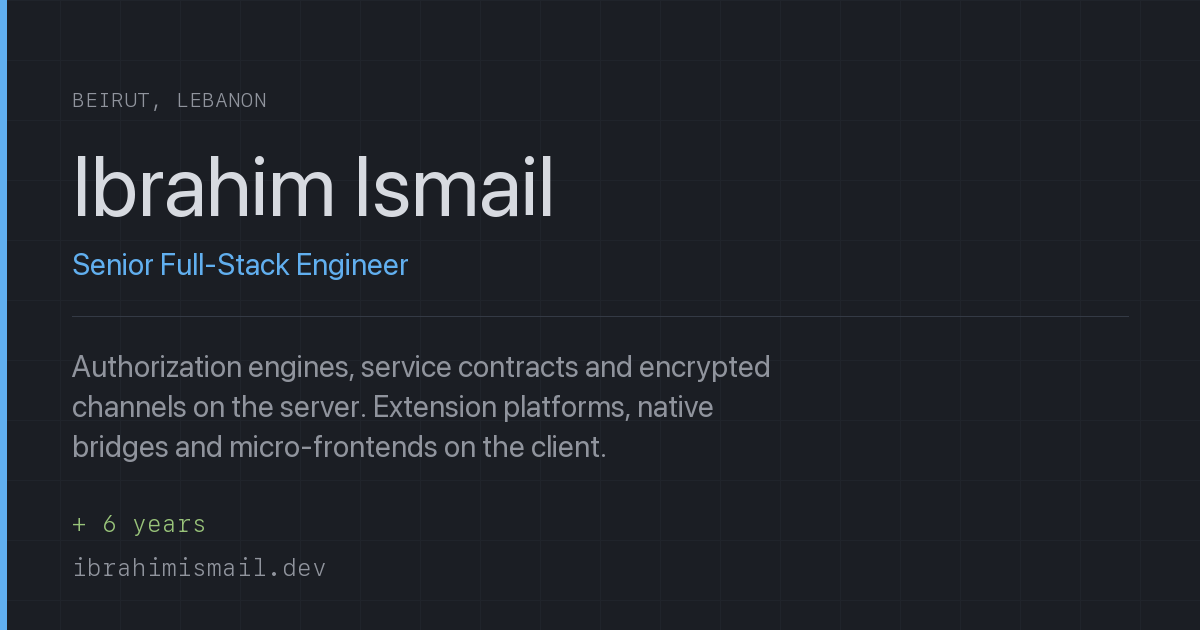
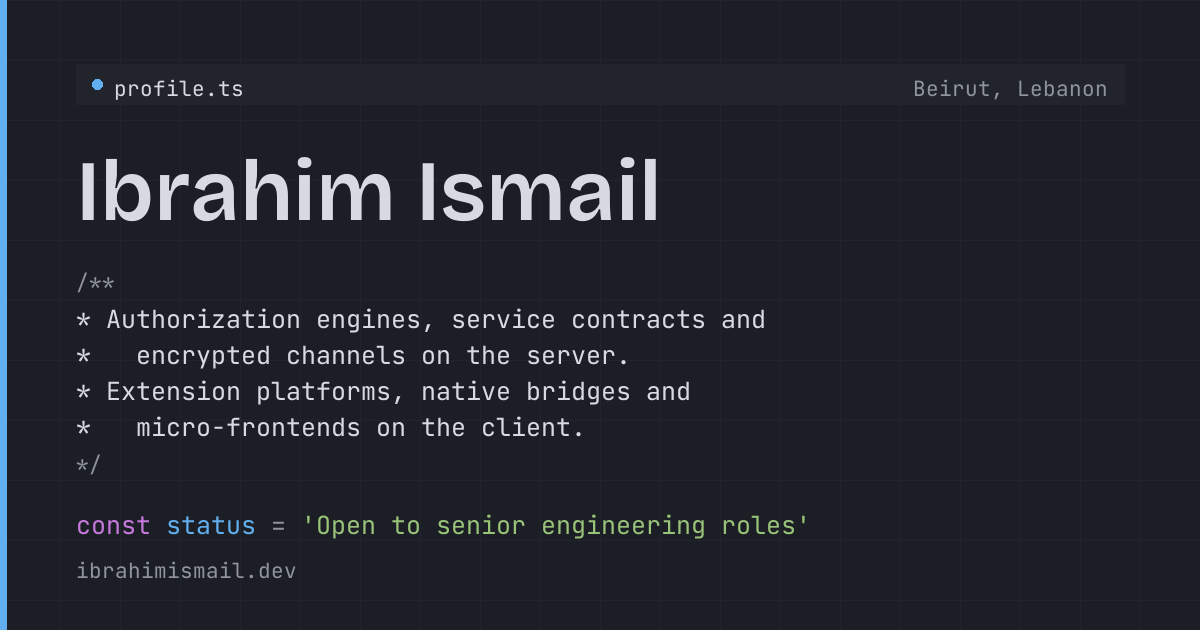
Render the link-preview card in the site's own faces
The card was drawn in the system UI fonts, because @fontsource ships
woff2 only and FreeType — which is what Pillow draws through — cannot
read it. scripts/og.py decompresses the two faces to temporary ttf with
fontTools first, so the name is set in Bricolage Grotesque at the weight
the masthead uses and everything else in JetBrains Mono. Dev-only:
nothing here runs at build or at runtime.

The composition follows the masthead rather than inventing its own: tab
bar with profile.ts and the location, the name, the pitch as a block
comment with the server clause first, and `const status = '…'` in the
colours the page gives it. The old card still carried the career figures
line, which was written for a section that has since been removed.

The location is placed by measuring the string rather than guessing at
its width — the guess had it sitting on the edge of the tab bar.

diff --git a/scripts/og.py b/scripts/og.py
@@ -1,64 +1,108 @@
 """
 Renders public/og.png — the link-preview card — from code rather than from a model.
 
-Rendered, not generated, for the reason the plan gives: a card drawn from the same tokens as
-the site is always current and always on-brand, where a generated image drifts the moment the
-copy changes. Re-run it when the pitch or the figures change:
-
     python3 scripts/og.py public/og.png
 
-It draws with the system UI fonts rather than the site's own, because those ship as woff2 and
-PIL cannot read them. The art pass replaces this with a build-time render in the real faces;
-until then this is honest, legible, and a great deal better than a broken preview.
+Rendered, not generated, for the reason the plan gives: a card drawn from the same tokens and
+the same faces as the site is always current and always on-brand, where a generated image drifts
+the moment the copy changes.
+
+It draws in the site's real faces. @fontsource ships woff2 only and FreeType — which is what
+Pillow draws through — cannot read it, so the two faces are decompressed to temporary ttf first.
+That needs fonttools and brotli, which are dev-only: nothing here runs at build or at runtime.
 """
 
-import sys
+from __future__ import annotations  # the system python here is 3.9
 
+import sys
+import tempfile
+from pathlib import Path
+
+from fontTools.ttLib import TTFont
 from PIL import Image, ImageDraw, ImageFont
 
-OUT = sys.argv[1]
+OUT = Path(sys.argv[1] if len(sys.argv) > 1 else 'public/og.png')
+ROOT = Path(__file__).resolve().parent.parent
+FONTS = ROOT / 'node_modules' / '@fontsource-variable'
+
 W, H = 1200, 630
-INK, SURFACE, HI, LO, ACCENT, ADD = '#1b1e24', '#21252b', '#d7dae0', '#90949d', '#61afef', '#98c379'
+INK = '#1b1e24'
+SURFACE = '#21252b'
+GRID = '#20242b'
+HI = '#d7dae0'
+LO = '#90949d'
+ACCENT = '#61afef'
+KEY = '#c678dd'
+ADD = '#98c379'
 
-def font(path, size, index=0):
-    try:
-        return ImageFont.truetype(path, size, index=index)
-    except Exception:
-        return ImageFont.load_default()
 
-display = font('/System/Library/Fonts/SFNS.ttf', 84)
-mono = font('/System/Library/Fonts/SFNSMono.ttf', 24)
-mono_sm = font('/System/Library/Fonts/SFNSMono.ttf', 21)
-body = font('/System/Library/Fonts/SFNS.ttf', 30)
+def face(package: str, filename: str, size: int, weight: float | None = None):
+    """A woff2 from node_modules, decompressed to ttf and loaded at `size`."""
+    source = FONTS / package / 'files' / filename
+    target = Path(tempfile.gettempdir()) / f'{source.stem}.ttf'
+    if not target.exists():
+        font = TTFont(str(source))
+        font.flavor = None
+        font.save(str(target))
+    loaded = ImageFont.truetype(str(target), size)
+    if weight is not None:
+        try:
+            loaded.set_variation_by_axes([weight])
+        except Exception:
+            pass  # A static build of the face is fine; it just ignores the axis.
+    return loaded
+
+
+display = face('bricolage-grotesque', 'bricolage-grotesque-latin-wght-normal.woff2', 86, 600)
+mono = face('jetbrains-mono', 'jetbrains-mono-latin-wght-normal.woff2', 25, 400)
+mono_sm = face('jetbrains-mono', 'jetbrains-mono-latin-wght-normal.woff2', 21, 400)
 
 im = Image.new('RGB', (W, H), INK)
 d = ImageDraw.Draw(im)
 
-# A hairline grid, the same technical substrate the page wears.
+# The hairline grid the page wears, and the accent rule down the edge.
 for x in range(0, W, 60):
-    d.line([(x, 0), (x, H)], fill='#20242b', width=1)
+    d.line([(x, 0), (x, H)], fill=GRID, width=1)
 for y in range(0, H, 60):
-    d.line([(0, y), (W, y)], fill='#20242b', width=1)
-
-PAD = 72
+    d.line([(0, y), (W, y)], fill=GRID, width=1)
 d.rectangle([0, 0, 6, H], fill=ACCENT)
 
-d.text((PAD, 86), 'BEIRUT, LEBANON', font=mono_sm, fill=LO)
-d.text((PAD, 134), 'Ibrahim Ismail', font=display, fill=HI)
-d.text((PAD, 246), 'Senior Full-Stack Engineer', font=body, fill=ACCENT)
+PAD = 76
 
-d.line([(PAD, 316), (W - PAD, 316)], fill='#343a45', width=1)
+# A tab bar, so the card is recognisably the same editor pane the page opens with.
+d.rectangle([PAD, 64, W - PAD, 104], fill=SURFACE)
+d.ellipse([PAD + 16, 79, PAD + 26, 89], fill=ACCENT)
+d.text((PAD + 38, 74), 'profile.ts', font=mono_sm, fill=HI)
+place = 'Beirut, Lebanon'
+d.text((W - PAD - 16 - d.textlength(place, font=mono_sm), 74), place, font=mono_sm, fill=LO)
 
+d.text((PAD, 140), 'Ibrahim Ismail', font=display, fill=HI)
+
+# The pitch, as the masthead sets it: a block comment, server clause first.
+d.text((PAD, 268), '/**', font=mono_sm, fill=LO)
 for i, line in enumerate([
-    'Authorization engines, service contracts and encrypted',
-    'channels on the server. Extension platforms, native',
-    'bridges and micro-frontends on the client.',
+    '* Authorization engines, service contracts and',
+    '*   encrypted channels on the server.',
+    '* Extension platforms, native bridges and',
+    '*   micro-frontends on the client.',
 ]):
-    d.text((PAD, 348 + i * 40), line, font=body, fill=LO)
+    d.text((PAD, 302 + i * 36), line, font=mono, fill=HI)
+d.text((PAD, 450), '*/', font=mono_sm, fill=LO)
 
-# The one measured claim, in the diff colour it wears on the page.
-d.text((PAD, 508), '+ 6 years', font=mono, fill=ADD)
-d.text((PAD, 552), 'ibrahimismail.dev', font=mono, fill=LO)
+# The status line, in the colours the page gives it.
+y = 508
+x = PAD
+for text, colour, font in (
+    ('const', KEY, mono),
+    (' status', ACCENT, mono),
+    (' = ', LO, mono),
+    ("'Open to senior engineering roles'", ADD, mono),
+):
+    d.text((x, y), text, font=font, fill=colour)
+    x += d.textlength(text, font=font)
 
+d.text((PAD, 556), 'ibrahimismail.dev', font=mono_sm, fill=LO)
+
+OUT.parent.mkdir(parents=True, exist_ok=True)
 im.save(OUT, 'PNG', optimize=True)
-print(OUT, im.size)
+print(f'{OUT} · {im.size[0]}x{im.size[1]} · {OUT.stat().st_size // 1024} kB')
